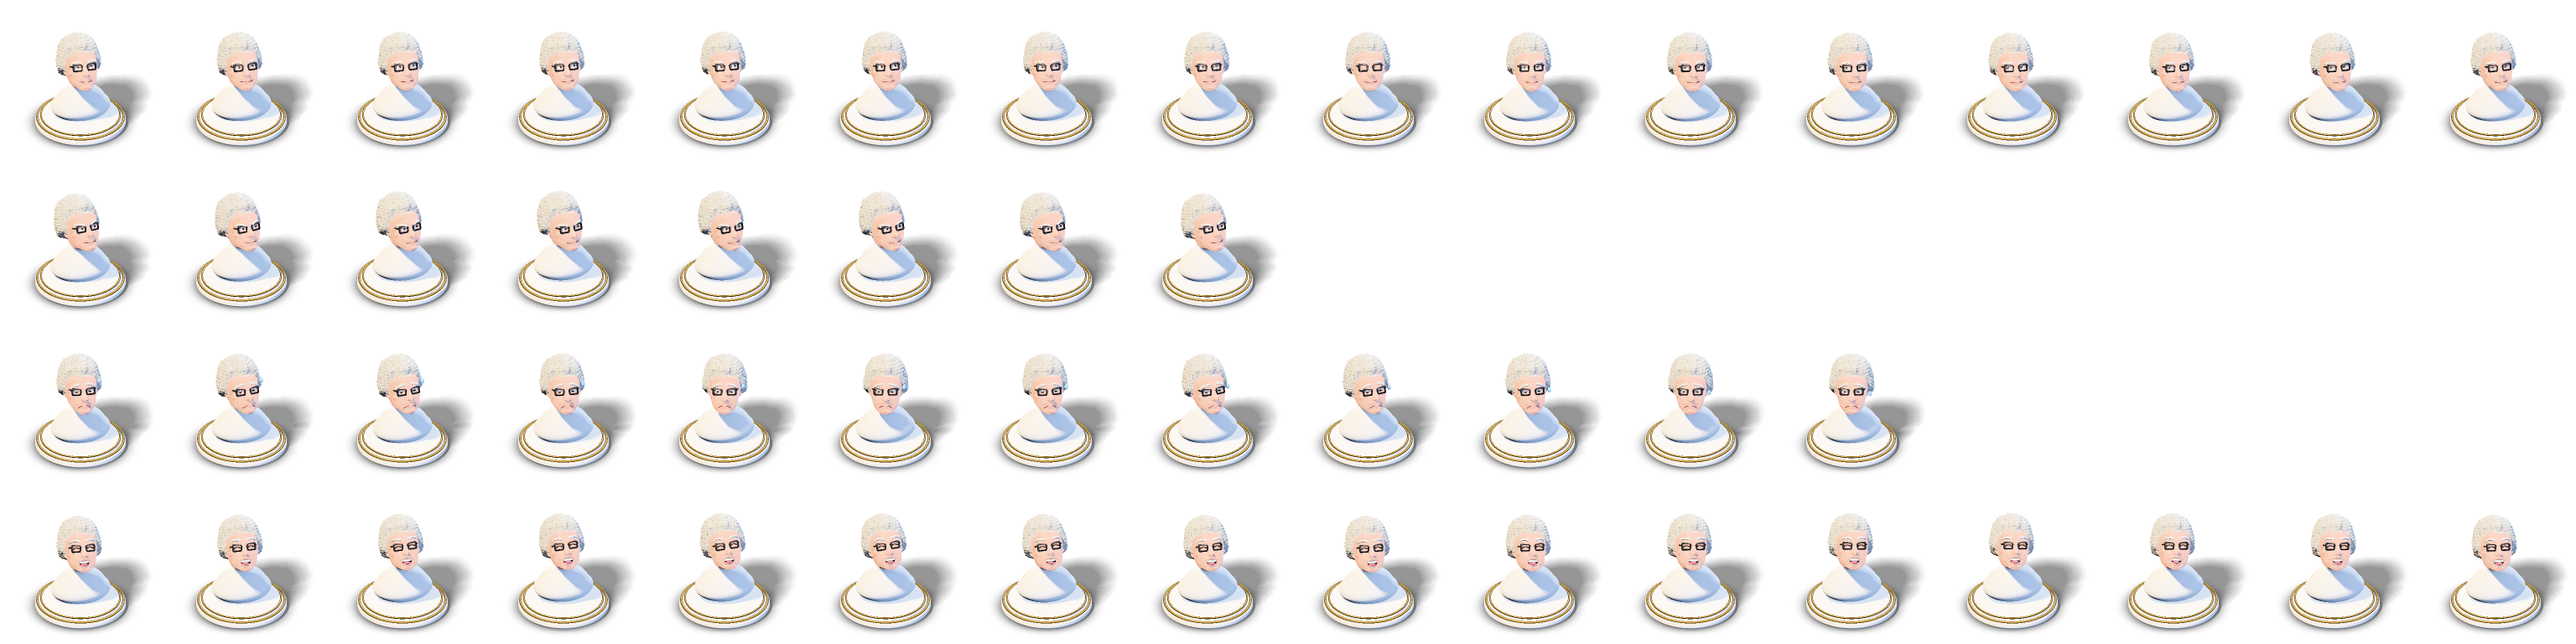
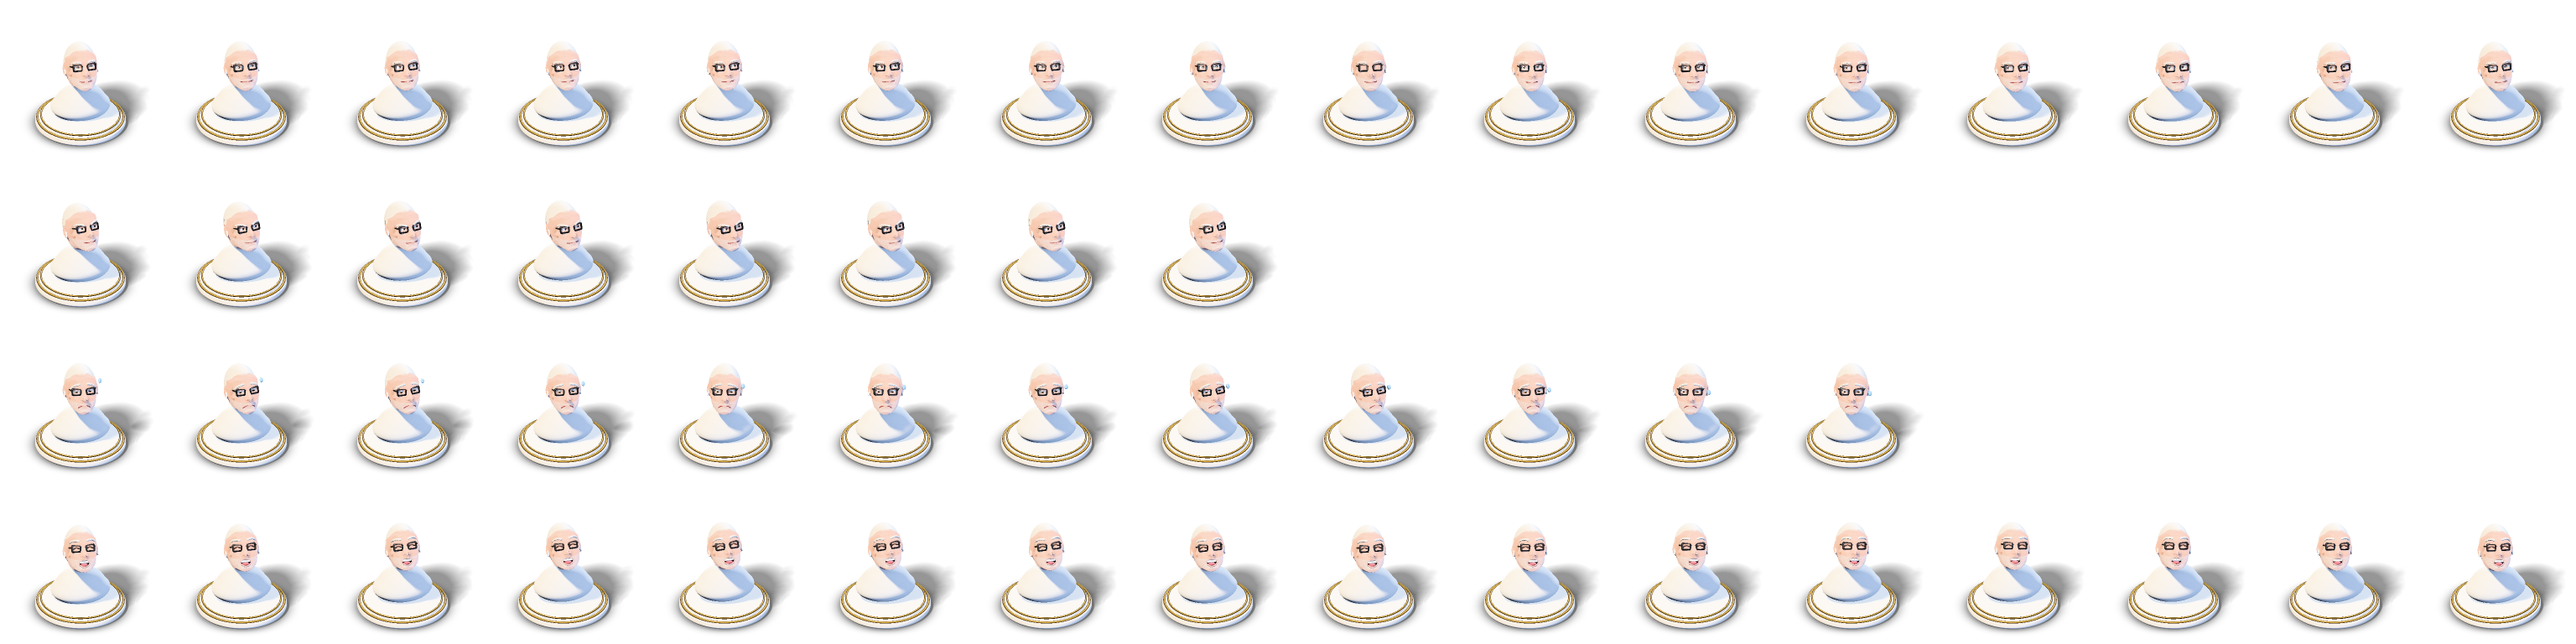
app: the human figurine with hair nearly shaved (the same forehead), a three-day beard (dark for Black, light grey for White), AirPods in the ears and a rounder skull; the thick black glasses and the plain top kept

diff --git a/doc/yolah_app.html b/doc/yolah_app.html
@@ -2334,7 +2334,7 @@ cmake<span class="w"> </span>-S<span class="w"> </span>app<span class="w"> </spa
 <div class="tablewrap"><table>
 <tr><th>File</th><th>Role</th></tr>
 <tr><td><code>render.py</code></td><td>a small renderer: shapes as signed distance functions (spheres, rounded boxes, capsules, tori...), each with a transform and a material; sphere tracing from an orthographic camera looking down at 32°; a warm key light with soft shadows, a cool fill, a rim light, ambient occlusion, GGX highlights, a studio environment for the metals, glass, emissive parts with bloom, a ground plane that keeps only the contact shadow; rendered twice larger and averaged down</td></tr>
-<tr><td><code>models.py</code></td><td>the characters: <code>model(anim, t, side)</code> builds the scene of one frame (the human, the author's figurine: the face of their photos (<code>portrait.py</code>), animated eyes, lids, brows and mouth, a wild mane swept back and bushy brows, black for Black and white for White, glasses with a thick black frame, a plain top, black or white by side; one robot per AI, from a wind-up tin toy to an energy core)</td></tr>
+<tr><td><code>models.py</code></td><td>the characters: <code>model(anim, t, side)</code> builds the scene of one frame (the human, the author's figurine: the face of their photos (<code>portrait.py</code>), animated eyes, lids, brows and mouth, hair nearly shaved and a three-day beard, black for Black and white for White, glasses with a thick black frame, AirPods, a plain top, black or white by side; one robot per AI, from a wind-up tin toy to an energy core)</td></tr>
 <tr><td><code>portrait.py</code></td><td>the human's face from the author's webcam photos: a 3D morphable model fitted by 3DDFA_V2 (front and three-quarter, identity only), baked into <code>ref/human_face3d.npz</code>: the depth of the face over the head's grid, its outline, the 68 keypoints, and the albedo with the photo's lighting removed (a spherical-harmonics light fitted on the face's normals) and its colour casts taken out; <code>models.py</code> makes the face a solid behind that depth, inside the outline, with the cranium and the jaw behind it</td></tr>
 <tr><td><code>build.py</code></td><td>renders idle (16 frames), move (8), blocked (12) and win (16) for both sides into <code>assets/art/fig_&lt;name&gt;[_blanc]</code></td></tr>
 <tr><td><code>space.py</code></td><td>the space theme: background, planet, squares, vortex hole, frame</td></tr>

diff --git a/doc/src/yolah_app/05_app_looks.html b/doc/src/yolah_app/05_app_looks.html
@@ -191,7 +191,7 @@ int px = int(std::floor((a.in.mouse.x - canvas.x) / cell)), py = int(std::floor(
 <div class="tablewrap"><table>
 <tr><th>File</th><th>Role</th></tr>
 <tr><td><code>render.py</code></td><td>a small renderer: shapes as signed distance functions (spheres, rounded boxes, capsules, tori...), each with a transform and a material; sphere tracing from an orthographic camera looking down at 32°; a warm key light with soft shadows, a cool fill, a rim light, ambient occlusion, GGX highlights, a studio environment for the metals, glass, emissive parts with bloom, a ground plane that keeps only the contact shadow; rendered twice larger and averaged down</td></tr>
-<tr><td><code>models.py</code></td><td>the characters: <code>model(anim, t, side)</code> builds the scene of one frame (the human, the author's figurine: the face of their photos (<code>portrait.py</code>), animated eyes, lids, brows and mouth, a wild mane swept back and bushy brows, black for Black and white for White, glasses with a thick black frame, a plain top, black or white by side; one robot per AI, from a wind-up tin toy to an energy core)</td></tr>
+<tr><td><code>models.py</code></td><td>the characters: <code>model(anim, t, side)</code> builds the scene of one frame (the human, the author's figurine: the face of their photos (<code>portrait.py</code>), animated eyes, lids, brows and mouth, hair nearly shaved and a three-day beard, black for Black and white for White, glasses with a thick black frame, AirPods, a plain top, black or white by side; one robot per AI, from a wind-up tin toy to an energy core)</td></tr>
 <tr><td><code>portrait.py</code></td><td>the human's face from the author's webcam photos: a 3D morphable model fitted by 3DDFA_V2 (front and three-quarter, identity only), baked into <code>ref/human_face3d.npz</code>: the depth of the face over the head's grid, its outline, the 68 keypoints, and the albedo with the photo's lighting removed (a spherical-harmonics light fitted on the face's normals) and its colour casts taken out; <code>models.py</code> makes the face a solid behind that depth, inside the outline, with the cranium and the jaw behind it</td></tr>
 <tr><td><code>build.py</code></td><td>renders idle (16 frames), move (8), blocked (12) and win (16) for both sides into <code>assets/art/fig_&lt;name&gt;[_blanc]</code></td></tr>
 <tr><td><code>space.py</code></td><td>the space theme: background, planet, squares, vortex hole, frame</td></tr>

diff --git a/app/tools/sprites/models.py b/app/tools/sprites/models.py
@@ -262,7 +262,7 @@ def hairline(q):
     return front * fr + (1 - front) * side + 0.014 * (vnoise(q * 28.0) - 0.5)
 
 
-def skin_mat(head=None):
+def skin_mat(head=None, side=0):
     """Skin; with `head` (the head's transform): the stubble beard and moustache,
     and faint lines on the forehead, placed in the head's coordinates."""
     base_c = srgb(SKIN)
@@ -285,8 +285,11 @@ def skin_mat(head=None):
             beard = beard * smoothstep(-0.36, -0.3, q[:, 1])              # fades on the neck
             speck = fbm(q * 260.0, 2)
             grey = (fbm(q * 300.0 + 7.0, 2) > 0.45).float()
-            stubble = srgb("#6c6058") * (1 - 0.75 * grey[:, None]) + srgb("#d2cdc8") * 0.75 * grey[:, None]
-            w = (beard * (0.35 + 0.35 * speck))[:, None] * 0.15
+            if side == 0:      # a three-day beard, black for Black, light grey for White
+                stubble = srgb("#211d1b") * (1 - 0.3 * grey[:, None]) + srgb("#3e3834") * 0.3 * grey[:, None]
+            else:
+                stubble = srgb("#a8a29c") * (1 - 0.6 * grey[:, None]) + srgb("#dcd8d2") * 0.6 * grey[:, None]
+            w = (beard * (0.6 + 0.35 * speck))[:, None]
             rough = rough + 0.25 * beard
             fore = smoothstep(0.115, 0.135, q[:, 1]) * smoothstep(0.23, 0.2, q[:, 1]) * (q[:, 2] > 0.1).float()
             lines = smoothstep(0.75, 0.95, torch.sin(q[:, 1] * 150 + 1.3 + 30 * q[:, 0] ** 2 + 2 * fbm(q * 20, 2))) * fore \
@@ -301,7 +304,7 @@ def skin_mat(head=None):
             lw = vec(0.2126, 0.7152, 0.0722)
             r = ((ph @ lw) / (srgb(SKIN) @ lw)).clamp(0.2, 2.0)
             ph = ph * (r ** 1.1)[:, None] * (0.97 + 0.06 * mott)[:, None]      # the detail, more marked
-            wf = wf * 0.55                                                      # the photo's stubble faded: clean shaven
+            wf = wf * 0.75
             a = a * (1 - wf[:, None]) + ph * wf[:, None]
             a = a * (1 - w) + stubble * w
             a = a * (1 - 0.3 * lines[:, None])
@@ -396,7 +399,7 @@ def human(anim, t, side, outfit="plain", shades=True):       # shades: glasses w
     lip = Mat("#b08e84", rough=0.5, sss=0.2, clearcoat=0.15)
     mouth_in = Mat("#4a1418", rough=0.6)
     teeth = Mat("#f3efe6", rough=0.25, clearcoat=0.6)
-    brow = Mat("#d6d0c6" if side == 1 else "#141313", rough=0.9)
+    brow = Mat("#cfc9c0" if side == 1 else "#141313", rough=0.9)
     # expression parameters
     yaw, pitch, roll, bob = 0.0, 0.0, 0.0, 0.0
     gaze = (0.1, 0.0, 1.0)
@@ -520,10 +523,10 @@ def human(anim, t, side, outfit="plain", shades=True):       # shades: glasses w
             sc.add(sd_capsule(end, (end[0], end[1] - 0.028, end[2] + 0.004), 0.0075), metal, root)   # the aglet
     sc.add(sd_capsule((0, 0, 0), (0, 0.15, 0.01), 0.078), skin_mat(), root * T(0, y0 + 0.38, 0))
     head = root * T(0, y0 + 0.72, 0.02) * RY(yaw) * RX(pitch - 0.42) * RZ(roll)   # faces the camera
-    skin = skin_mat(head)
+    skin = skin_mat(head, side)
     # head: the face (from the photos), the cranium, the jaw behind the face, the ears
     sc.add(sd_face, skin, head)
-    sc.add(sd_ellipsoid(0.178, 0.29, 0.265), skin, head * T(0, 0.06, -0.045), blend=0.04)
+    sc.add(sd_ellipsoid(0.186, 0.258, 0.262), skin, head * T(0, 0.045, -0.04), blend=0.04)   # a rounder skull
     sc.add(sd_ellipsoid(0.13, 0.12, 0.15), skin, head * T(0, -0.13, -0.045), blend=0.05)
     for sgn in (-1, 1):
         ear = head * T(0.18 * sgn, -0.01, -0.02) * RY(0.6 * sgn)
@@ -565,6 +568,12 @@ def human(anim, t, side, outfit="plain", shades=True):       # shades: glasses w
             sc.add(rim, frame, c)
             sc.add(sd_capsule((0.148 * sgn, 0.045, 0.232), (0.188 * sgn, 0.04, 0.0), 0.007), frame, head)   # the arms
         sc.add(sd_capsule((-0.032, 0.045, 0.264), (0.032, 0.045, 0.264), 0.007), frame, head)               # the bridge
+    # AirPods: a glossy white bud in each ear, its stem down along the cheek
+    pod = Mat("#f6f6f4", rough=0.12, clearcoat=1.2)
+    for sgn in (-1, 1):
+        ear = head * T(0.18 * sgn, -0.01, -0.02) * RY(0.6 * sgn)
+        sc.add(sd_ellipsoid(0.017, 0.015, 0.014), pod, ear * T(0, -0.012, 0.024))
+        sc.add(sd_capsule((0, -0.016, 0.03), (0.004 * sgn, -0.062, 0.042), 0.0065, 0.006), pod, ear)
     # mouth: lips along a curve (smile > 0: corners up), the mouth open by open_m
     mw = 0.074
     pts = []
@@ -593,36 +602,17 @@ def human(anim, t, side, outfit="plain", shades=True):       # shades: glasses w
     # the hairline, with locks; strands run front to back on top, down on the sides
     def hair_pat(pl, pw, n):
         q = head.to_local(pw)
-        side_w = smoothstep(0.1, 0.2, q[:, 0].abs()) * smoothstep(0.3, 0.15, q[:, 1])
-        top = fbm(torch.stack([q[:, 0] * 380, q[:, 1] * 40, q[:, 2] * 30], -1), 3)
-        sid = fbm(torch.stack([q[:, 0] * 30, q[:, 1] * 40, q[:, 2] * 380], -1) + 5.0, 3)
-        u = top * (1 - side_w) + sid * side_w
-        big = fbm(q * 12.0 + 2.0, 3)
-        greyness = (0.75 + 0.2 * side_w + 0.3 * (big - 0.5)).clamp(0, 1)       # white, ivory in the shade
-        if side == 0:      # Black: black hair
-            dark, mid, light = srgb("#0c0b0b"), srgb("#1e1c1b"), srgb("#3a3836")
-        else:              # White: white hair
-            dark, mid, light = srgb("#7a756c"), srgb("#b6b1a6"), srgb("#dedbd3")
-        g = smoothstep(0.75 - greyness, 1.0 - greyness * 0.5, u)
-        a = dark * (1 - g[:, None]) + mid * g[:, None]
-        a = a * (1 - (smoothstep(0.62, 0.8, u) * greyness)[:, None]) + light * (smoothstep(0.62, 0.8, u) * greyness)[:, None]
-        cu = curls(q)
-        a = a * (0.55 + 0.6 * cu)[:, None]                       # each curl lit, the hollows between them dark
-        return {"albedo": a, "rough": 0.68 + 0.15 * u}
+        hc = srgb("#141210") if side == 0 else srgb("#d8d4cc")        # black for Black, white for White
+        above = q[:, 1] - hairline(q)
+        k = smoothstep(0.0, 0.03, above) * (0.96 + 0.04 * fbm(q * 220.0, 2))     # sparser at the hairline
+        a = srgb(SKIN) * 0.92 * (1 - k[:, None]) + hc * (0.85 + 0.3 * fbm(q * 300.0 + 2, 2))[:, None] * k[:, None]
+        return {"albedo": a, "rough": 0.75 + 0.15 * k}
     hair_m = Mat("#7a756f", rough=0.7, pattern=hair_pat)
 
-    def hair(p):
-        cran = sd_ellipsoid(0.178, 0.29, 0.265)(p - vec(0, 0.06, -0.045))
+    def hair(p):    # nearly shaved: a thin shell over the cranium, above the hairline
+        cran = sd_ellipsoid(0.186, 0.258, 0.262)(p - vec(0, 0.045, -0.04))
         above = p[:, 1] - hairline(p)
-        ramp = smoothstep(-0.005, 0.1, above)                     # thin at the hairline, full above
-        side_w = smoothstep(0.1, 0.17, p[:, 0].abs())
-        # clumps, and grooves along the strands (front to back on top, down the sides)
-        flow = torch.where(side_w > 0.5, p[:, 2] * 140.0, p[:, 0] * 140.0)
-        tousle = 0.016 * (fbm(p * 6.0 + 1.0, 3) - 0.5) * 2 + 0.016 * curls(p) ** 0.7     # tidy, curly
-        back = smoothstep(0.05, -0.2, p[:, 2])
-        low = smoothstep(0.25, 0.0, p[:, 1])                         # fuller low on the sides, around the ears
-        thick = 0.03 + 0.035 * side_w * (0.5 + 0.5 * low) + 0.035 * back + 0.01 * smoothstep(0.1, 0.3, p[:, 1])
-        d = cran - (0.004 + (thick + tousle) * ramp)
+        d = cran - (0.002 + 0.006 * smoothstep(-0.005, 0.04, above))
         return torch.maximum(d, -above * 0.5)
     sc.add(hair, hair_m, head)
     import random
